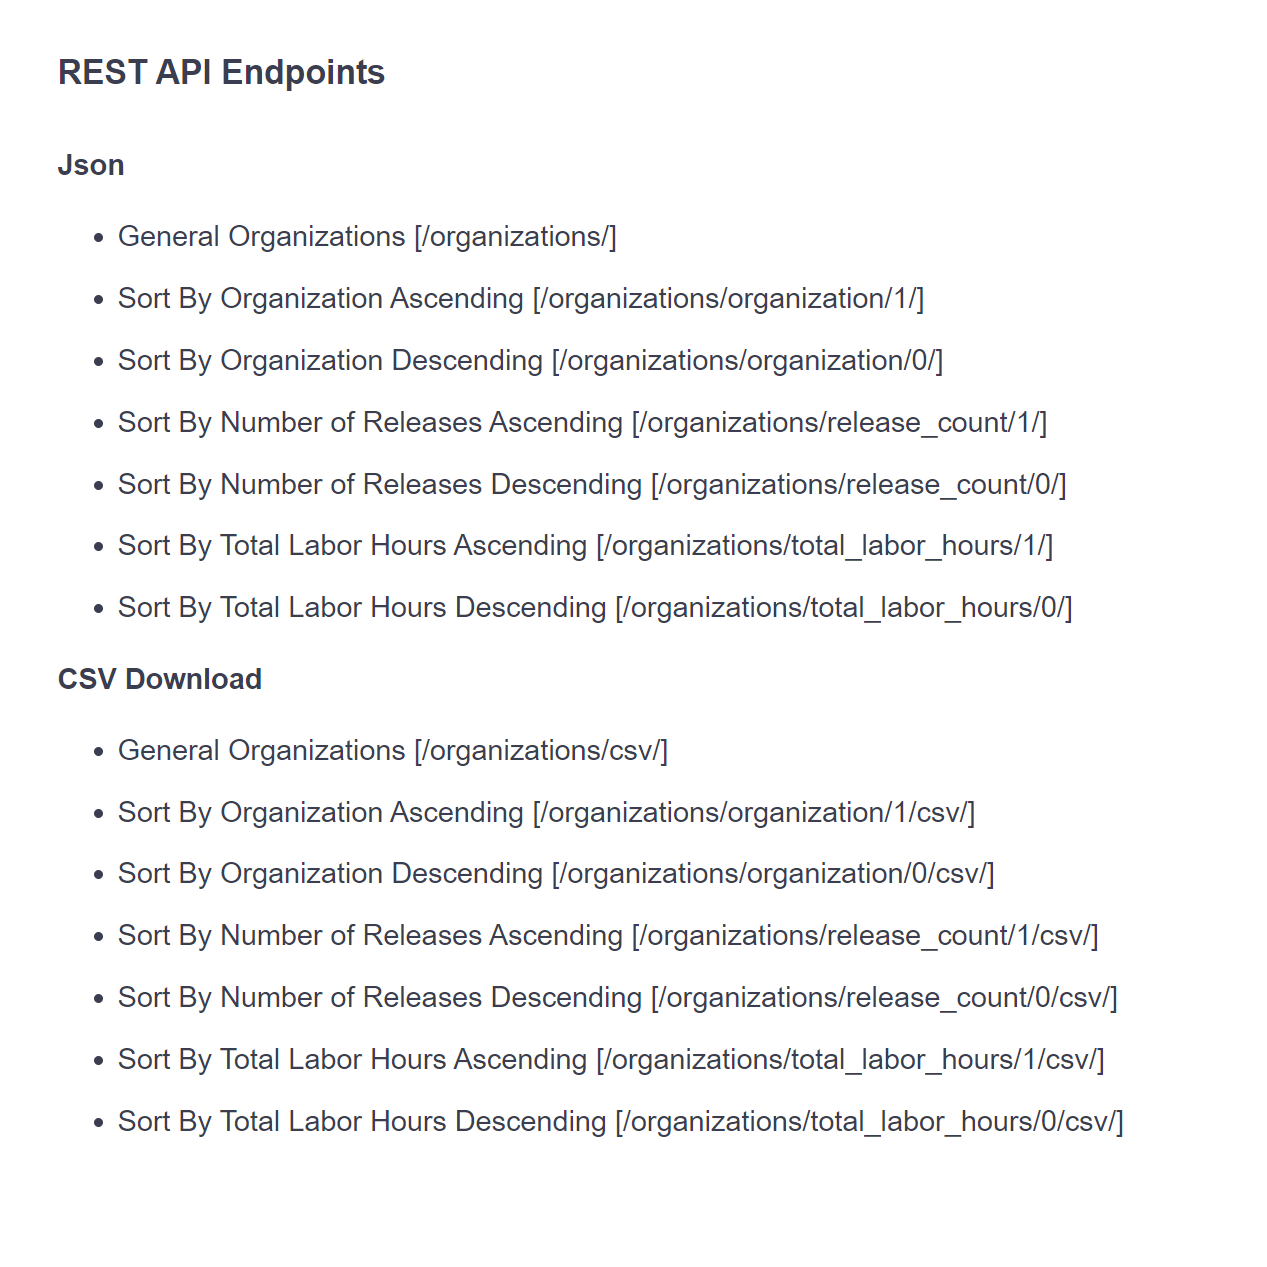
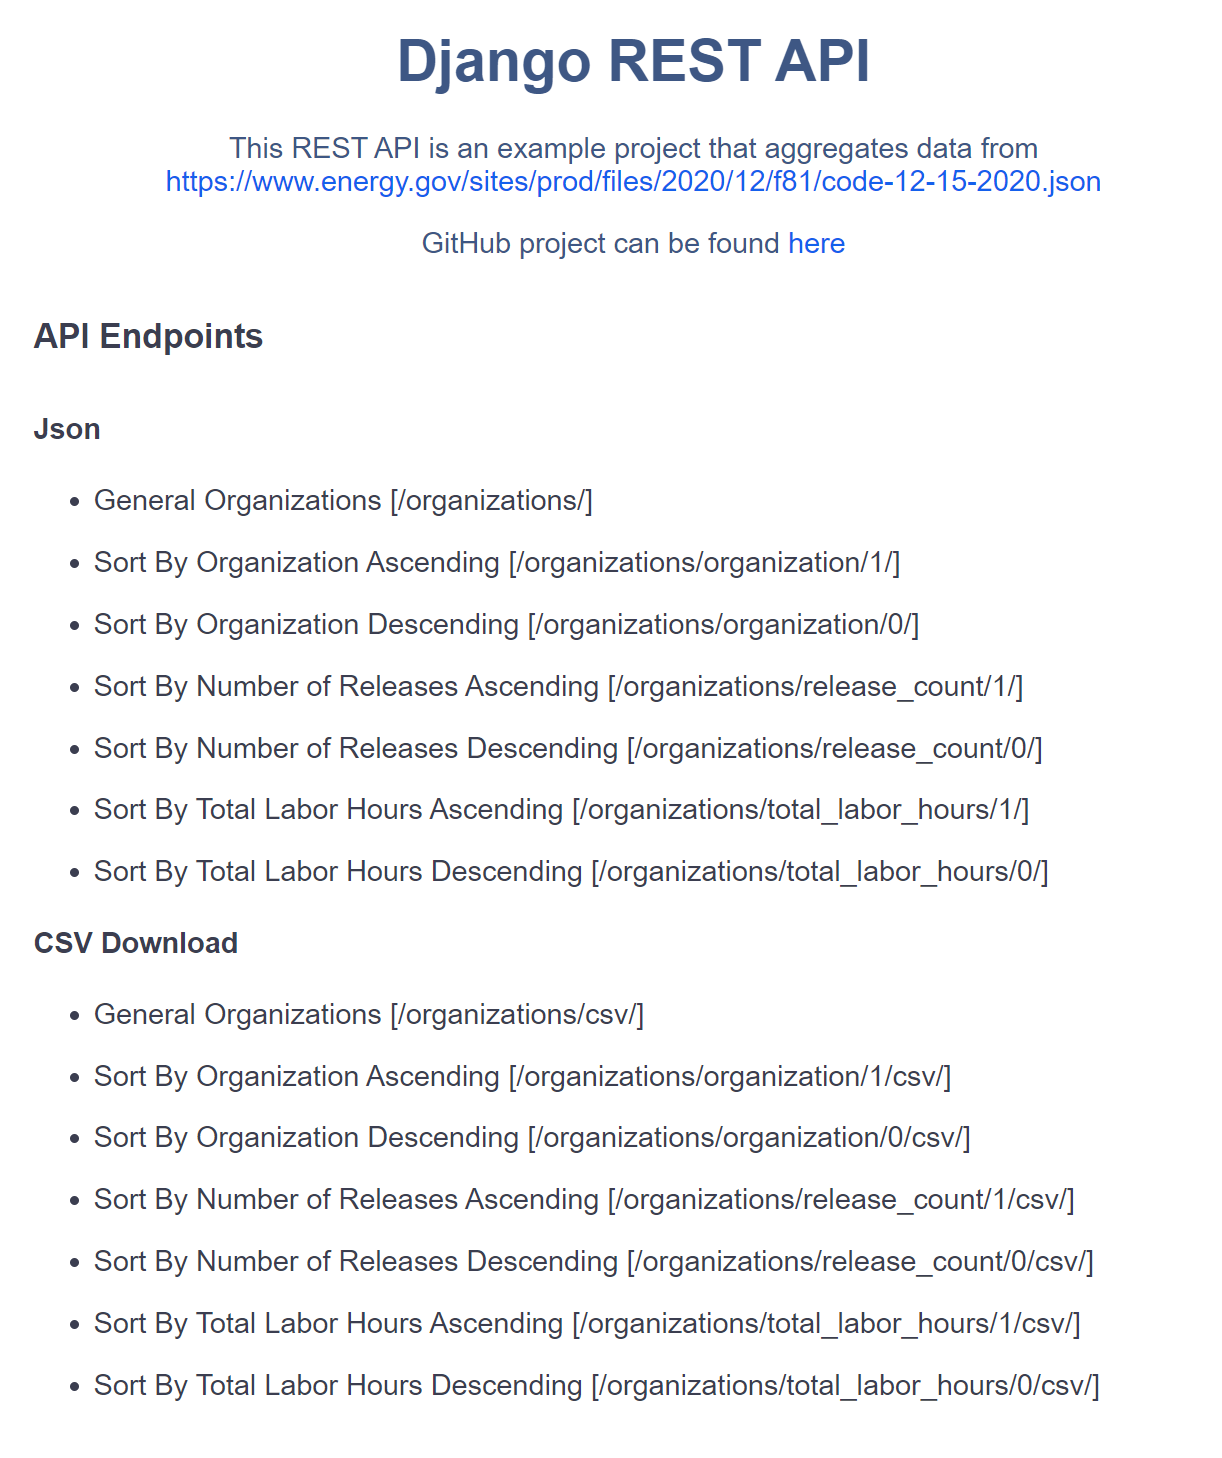
Include summary on homepage.

Changed region(s): [[0.0311, 0.277, 0.9018, 0.9542], [0.0311, 0.0, 0.9018, 0.2463], [0.0311, 0.1231, 0.0933, 0.1539]]

diff --git a/rest_api/templates/rest_api/index.html b/rest_api/templates/rest_api/index.html
@@ -14,8 +14,19 @@
 </head>
 <body>
     <div class="main-container">
+        <div class="intro-container">
+            <h1>Django REST API</h1>
+            
+            <p class="intro">
+            This REST API is an example project that aggregates data from <a href="https://www.energy.gov/sites/prod/files/2020/12/f81/code-12-15-2020.json">https://www.energy.gov/sites/prod/files/2020/12/f81/code-12-15-2020.json</a>
+            </p>
+            
+            <p class="intro">
+            GitHub project can be found <a href="https://github.com/codeDogMcGee/DeveloperToolsRestApi">here</a>
+            </p>
+        </div>
         
-        <h3>REST API Endpoints</h3>
+        <h3>API Endpoints</h3>
         <h4>Json</h4>
         <ul>
             <li><a href="/organizations/">General Organizations [/organizations/]</a></li>

diff --git a/rest_api/static/rest_api/styles.css b/rest_api/static/rest_api/styles.css
@@ -39,3 +39,13 @@ li {
     width: 100%;
     max-width: 800px;
 }
+
+.intro-container {
+    color: #3E5784;
+    text-align: center;
+}
+
+.intro a {
+    color: #1460EC;
+    /* text-decoration:dashed; */
+}
